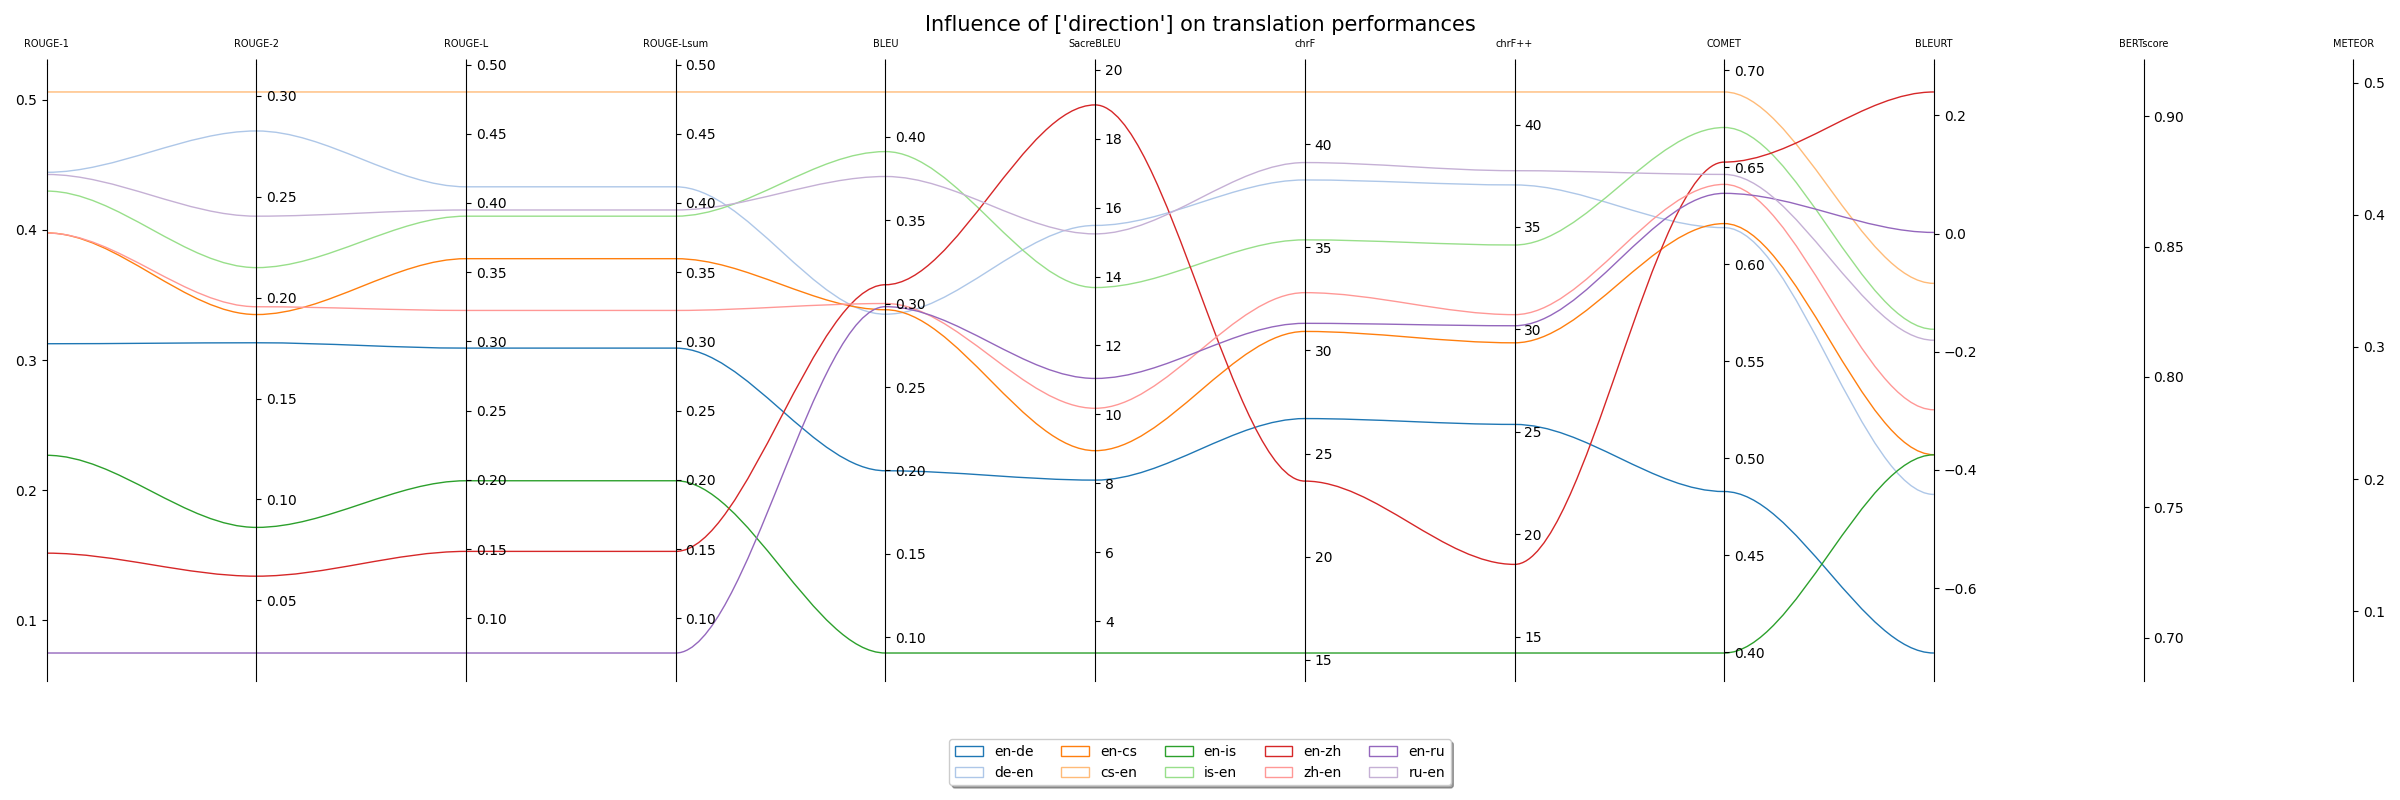
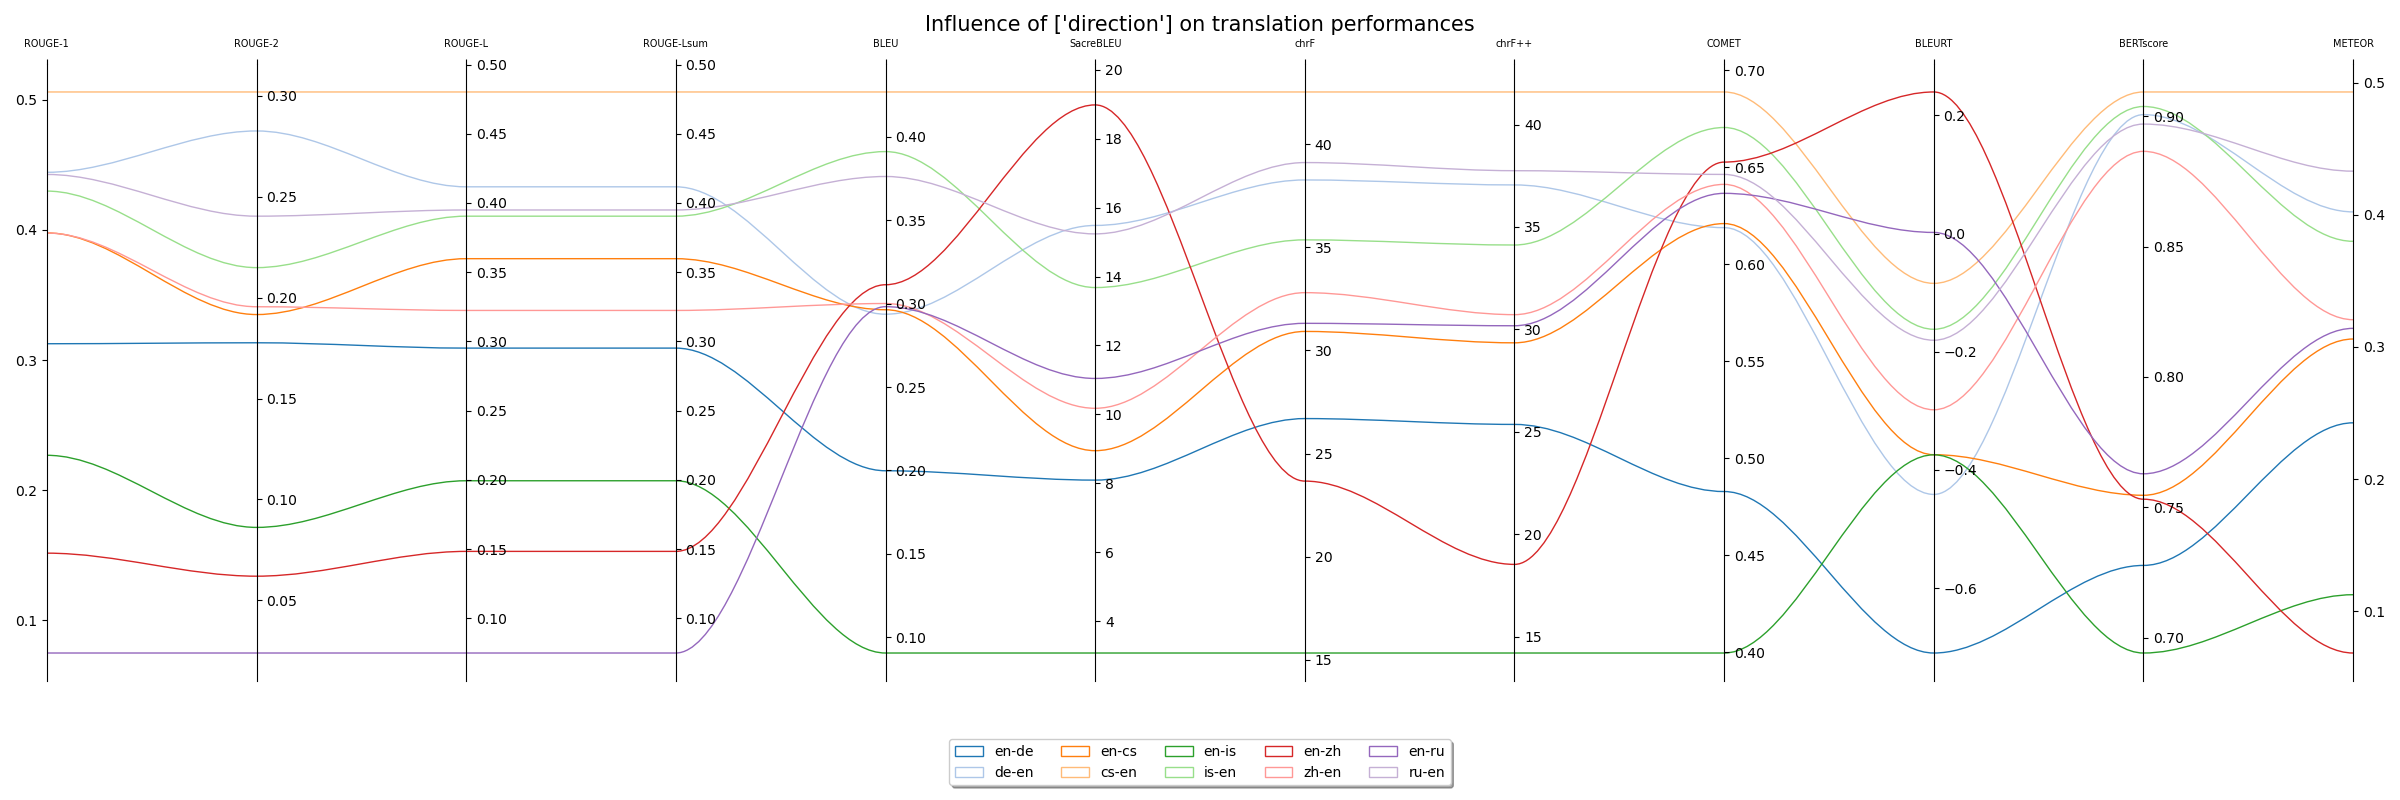
Fix parallel plot for one model

diff --git a/utils/utils_plot.py b/utils/utils_plot.py
@@ -72,7 +72,7 @@ def parallelCoordinatesPlot(title, N, data, category, ynames, colors=None, categ
         #   at one third towards the next axis; the first and last axis have one less control vertex
         # x-coordinate of the control vertices: at each integer (for the axes) and two inbetween
         # y-coordinate: repeat every point three times, except the first and last only twice
-        verts = list(zip([x for x in np.linspace(0, len(ys) - 1, len(ys) * 3 - 2, endpoint=True)],
+        verts = list(zip([x for x in np.linspace(0, len(ynames) - 1, len(ynames) * 3 - 2, endpoint=True)],
                          np.repeat(zs[j, :], 3)[1:-1]))
         # for x,y in verts: host.plot(x, y, 'go') # to show the control points of the beziers
         codes = [Path.MOVETO] + [Path.CURVE4 for _ in range(len(verts) - 1)]
